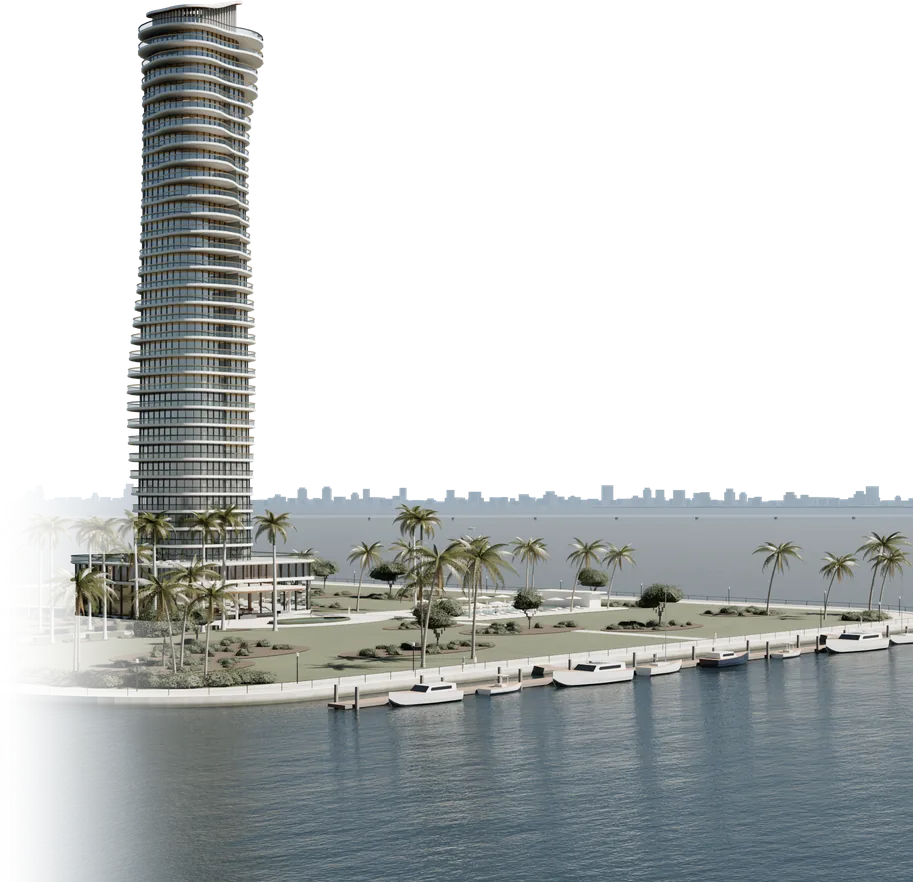
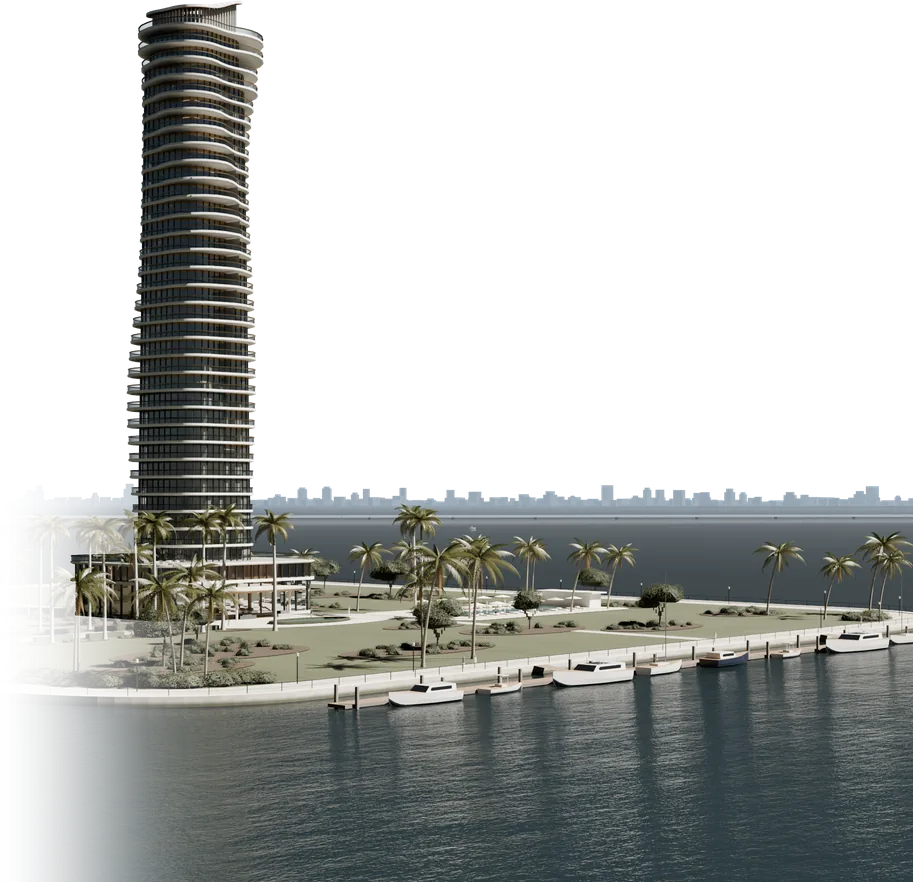
Tower: day still with a hard sun and dark glass; firmer halo for the ruler names
Claude-Session: https://claude.ai/code/session_01NwbVuqgoRVWCR4N1gnNUkq

Changed region(s): [[0.0613, 0.0, 1.0, 0.7041], [0.2453, 0.7347, 1.0, 1.0]]

diff --git a/es/index.html b/es/index.html
@@ -39,8 +39,8 @@
 </script>
 <link rel="preload" href="/fonts/cormorant-garamond-latin-300-normal.woff2" as="font" type="font/woff2" crossorigin>
 <link rel="preload" href="/fonts/jost-latin-400-normal.woff2" as="font" type="font/woff2" crossorigin>
-<link rel="stylesheet" href="/site.css?v=b3cd71a7">
-<link rel="stylesheet" href="/home.css?v=b3cd71a7">
+<link rel="stylesheet" href="/site.css?v=b817ba9a">
+<link rel="stylesheet" href="/home.css?v=b817ba9a">
 <script>
 (function(){var d=document.documentElement;d.classList.add('js');if(/[?&]motion=off(&|$)/.test(location.search))d.dataset.motion='off';var q=/[?&]theme=(dark|light)(&|$)/.exec(location.search);if(q)d.dataset.theme=q[1];
 try{var t=localStorage.getItem('cm-theme');if(t)d.dataset.theme=t;if(localStorage.getItem('cm-motion')==='off')d.dataset.motion='off';
@@ -48,10 +48,10 @@ if(!sessionStorage.getItem('cm-intro')&&!localStorage.getItem('cm-intro')&&!loca
 // if the shared script (site.js) has not arrived four seconds on, the header falls back to its plain list of links
 setTimeout(function(){var b=document.body;if(b&&b.classList.contains('no-js'))d.classList.add('nosite')},4000)})();
 </script>
-<script src="/site.js?v=b3cd71a7" defer></script>
-<script src="/model.js?v=b3cd71a7" defer></script>
-<script src="/instrument.js?v=b3cd71a7" defer></script>
-<script src="/tower3d.js?v=b3cd71a7" async fetchpriority="low"></script>
+<script src="/site.js?v=b817ba9a" defer></script>
+<script src="/model.js?v=b817ba9a" defer></script>
+<script src="/instrument.js?v=b817ba9a" defer></script>
+<script src="/tower3d.js?v=b817ba9a" async fetchpriority="low"></script>
 <script type="speculationrules">{"prefetch":[{"where":{"and":[{"href_matches":"/*"},{"not":{"selector_matches":"[download], [target=_blank], [rel~=nofollow]"}}]},"eagerness":"moderate"}]}</script>
 </head>
 <body class="no-js home">

diff --git a/pt/index.html b/pt/index.html
@@ -39,8 +39,8 @@
 </script>
 <link rel="preload" href="/fonts/cormorant-garamond-latin-300-normal.woff2" as="font" type="font/woff2" crossorigin>
 <link rel="preload" href="/fonts/jost-latin-400-normal.woff2" as="font" type="font/woff2" crossorigin>
-<link rel="stylesheet" href="/site.css?v=b3cd71a7">
-<link rel="stylesheet" href="/home.css?v=b3cd71a7">
+<link rel="stylesheet" href="/site.css?v=b817ba9a">
+<link rel="stylesheet" href="/home.css?v=b817ba9a">
 <script>
 (function(){var d=document.documentElement;d.classList.add('js');if(/[?&]motion=off(&|$)/.test(location.search))d.dataset.motion='off';var q=/[?&]theme=(dark|light)(&|$)/.exec(location.search);if(q)d.dataset.theme=q[1];
 try{var t=localStorage.getItem('cm-theme');if(t)d.dataset.theme=t;if(localStorage.getItem('cm-motion')==='off')d.dataset.motion='off';
@@ -48,10 +48,10 @@ if(!sessionStorage.getItem('cm-intro')&&!localStorage.getItem('cm-intro')&&!loca
 // if the shared script (site.js) has not arrived four seconds on, the header falls back to its plain list of links
 setTimeout(function(){var b=document.body;if(b&&b.classList.contains('no-js'))d.classList.add('nosite')},4000)})();
 </script>
-<script src="/site.js?v=b3cd71a7" defer></script>
-<script src="/model.js?v=b3cd71a7" defer></script>
-<script src="/instrument.js?v=b3cd71a7" defer></script>
-<script src="/tower3d.js?v=b3cd71a7" async fetchpriority="low"></script>
+<script src="/site.js?v=b817ba9a" defer></script>
+<script src="/model.js?v=b817ba9a" defer></script>
+<script src="/instrument.js?v=b817ba9a" defer></script>
+<script src="/tower3d.js?v=b817ba9a" async fetchpriority="low"></script>
 <script type="speculationrules">{"prefetch":[{"where":{"and":[{"href_matches":"/*"},{"not":{"selector_matches":"[download], [target=_blank], [rel~=nofollow]"}}]},"eagerness":"moderate"}]}</script>
 </head>
 <body class="no-js home">

diff --git a/index.html b/index.html
@@ -39,8 +39,8 @@
 </script>
 <link rel="preload" href="fonts/cormorant-garamond-latin-300-normal.woff2" as="font" type="font/woff2" crossorigin>
 <link rel="preload" href="fonts/jost-latin-400-normal.woff2" as="font" type="font/woff2" crossorigin>
-<link rel="stylesheet" href="site.css?v=b3cd71a7">
-<link rel="stylesheet" href="home.css?v=b3cd71a7">
+<link rel="stylesheet" href="site.css?v=b817ba9a">
+<link rel="stylesheet" href="home.css?v=b817ba9a">
 <script>
 (function(){var d=document.documentElement;d.classList.add('js');if(/[?&]motion=off(&|$)/.test(location.search))d.dataset.motion='off';var q=/[?&]theme=(dark|light)(&|$)/.exec(location.search);if(q)d.dataset.theme=q[1];
 try{var t=localStorage.getItem('cm-theme');if(t)d.dataset.theme=t;if(localStorage.getItem('cm-motion')==='off')d.dataset.motion='off';
@@ -48,10 +48,10 @@ if(!sessionStorage.getItem('cm-intro')&&!localStorage.getItem('cm-intro')&&!loca
 // if the shared script (site.js) has not arrived four seconds on, the header falls back to its plain list of links
 setTimeout(function(){var b=document.body;if(b&&b.classList.contains('no-js'))d.classList.add('nosite')},4000)})();
 </script>
-<script src="site.js?v=b3cd71a7" defer></script>
-<script src="model.js?v=b3cd71a7" defer></script>
-<script src="instrument.js?v=b3cd71a7" defer></script>
-<script src="tower3d.js?v=b3cd71a7" async fetchpriority="low"></script>
+<script src="site.js?v=b817ba9a" defer></script>
+<script src="model.js?v=b817ba9a" defer></script>
+<script src="instrument.js?v=b817ba9a" defer></script>
+<script src="tower3d.js?v=b817ba9a" async fetchpriority="low"></script>
 <script type="speculationrules">{"prefetch":[{"where":{"and":[{"href_matches":"/*"},{"not":{"selector_matches":"[download], [target=_blank], [rel~=nofollow]"}}]},"eagerness":"moderate"}]}</script>
 </head>
 <body class="no-js home">

diff --git a/es/clientes-privados.html b/es/clientes-privados.html
@@ -39,10 +39,10 @@
 </script>
 <link rel="preload" href="/fonts/cormorant-garamond-latin-300-normal.woff2" as="font" type="font/woff2" crossorigin>
 <link rel="preload" href="/fonts/jost-latin-400-normal.woff2" as="font" type="font/woff2" crossorigin>
-<link rel="stylesheet" href="/site.css?v=b3cd71a7">
+<link rel="stylesheet" href="/site.css?v=b817ba9a">
 <script>document.documentElement.classList.add('js');if(/[?&]motion=off(&|$)/.test(location.search))document.documentElement.dataset.motion='off';var q=/[?&]theme=(dark|light)(&|$)/.exec(location.search);if(q)document.documentElement.dataset.theme=q[1];try{var t=localStorage.getItem('cm-theme');if(t)document.documentElement.dataset.theme=t;if(localStorage.getItem('cm-motion')==='off')document.documentElement.dataset.motion='off';if(sessionStorage.getItem('cm-door')){sessionStorage.removeItem('cm-door');document.documentElement.dataset.door='open'}}catch(e){}setTimeout(function(){var b=document.body;if(b&&b.classList.contains('no-js'))document.documentElement.classList.add('nosite')},4000)</script>
-<script src="/site.js?v=b3cd71a7" defer></script>
-<script src="/instrument.js?v=b3cd71a7" defer></script>
+<script src="/site.js?v=b817ba9a" defer></script>
+<script src="/instrument.js?v=b817ba9a" defer></script>
 <script type="speculationrules">{"prefetch":[{"where":{"and":[{"href_matches":"/*"},{"not":{"selector_matches":"[download], [target=_blank], [rel~=nofollow]"}}]},"eagerness":"moderate"}]}</script>
 </head>
 <body class="no-js" id="top">

diff --git a/pt/clientes-privados.html b/pt/clientes-privados.html
@@ -39,10 +39,10 @@
 </script>
 <link rel="preload" href="/fonts/cormorant-garamond-latin-300-normal.woff2" as="font" type="font/woff2" crossorigin>
 <link rel="preload" href="/fonts/jost-latin-400-normal.woff2" as="font" type="font/woff2" crossorigin>
-<link rel="stylesheet" href="/site.css?v=b3cd71a7">
+<link rel="stylesheet" href="/site.css?v=b817ba9a">
 <script>document.documentElement.classList.add('js');if(/[?&]motion=off(&|$)/.test(location.search))document.documentElement.dataset.motion='off';var q=/[?&]theme=(dark|light)(&|$)/.exec(location.search);if(q)document.documentElement.dataset.theme=q[1];try{var t=localStorage.getItem('cm-theme');if(t)document.documentElement.dataset.theme=t;if(localStorage.getItem('cm-motion')==='off')document.documentElement.dataset.motion='off';if(sessionStorage.getItem('cm-door')){sessionStorage.removeItem('cm-door');document.documentElement.dataset.door='open'}}catch(e){}setTimeout(function(){var b=document.body;if(b&&b.classList.contains('no-js'))document.documentElement.classList.add('nosite')},4000)</script>
-<script src="/site.js?v=b3cd71a7" defer></script>
-<script src="/instrument.js?v=b3cd71a7" defer></script>
+<script src="/site.js?v=b817ba9a" defer></script>
+<script src="/instrument.js?v=b817ba9a" defer></script>
 <script type="speculationrules">{"prefetch":[{"where":{"and":[{"href_matches":"/*"},{"not":{"selector_matches":"[download], [target=_blank], [rel~=nofollow]"}}]},"eagerness":"moderate"}]}</script>
 </head>
 <body class="no-js" id="top">

diff --git a/private-clients.html b/private-clients.html
@@ -39,10 +39,10 @@
 </script>
 <link rel="preload" href="fonts/cormorant-garamond-latin-300-normal.woff2" as="font" type="font/woff2" crossorigin>
 <link rel="preload" href="fonts/jost-latin-400-normal.woff2" as="font" type="font/woff2" crossorigin>
-<link rel="stylesheet" href="site.css?v=b3cd71a7">
+<link rel="stylesheet" href="site.css?v=b817ba9a">
 <script>document.documentElement.classList.add('js');if(/[?&]motion=off(&|$)/.test(location.search))document.documentElement.dataset.motion='off';var q=/[?&]theme=(dark|light)(&|$)/.exec(location.search);if(q)document.documentElement.dataset.theme=q[1];try{var t=localStorage.getItem('cm-theme');if(t)document.documentElement.dataset.theme=t;if(localStorage.getItem('cm-motion')==='off')document.documentElement.dataset.motion='off';if(sessionStorage.getItem('cm-door')){sessionStorage.removeItem('cm-door');document.documentElement.dataset.door='open'}}catch(e){}setTimeout(function(){var b=document.body;if(b&&b.classList.contains('no-js'))document.documentElement.classList.add('nosite')},4000)</script>
-<script src="site.js?v=b3cd71a7" defer></script>
-<script src="instrument.js?v=b3cd71a7" defer></script>
+<script src="site.js?v=b817ba9a" defer></script>
+<script src="instrument.js?v=b817ba9a" defer></script>
 <script type="speculationrules">{"prefetch":[{"where":{"and":[{"href_matches":"/*"},{"not":{"selector_matches":"[download], [target=_blank], [rel~=nofollow]"}}]},"eagerness":"moderate"}]}</script>
 </head>
 <body class="no-js" id="top">

diff --git a/404.html b/404.html
@@ -28,10 +28,10 @@
 <meta name="theme-color" content="#F4F0E8">
 <link rel="preload" href="/fonts/cormorant-garamond-latin-300-normal.woff2" as="font" type="font/woff2" crossorigin>
 <link rel="preload" href="/fonts/jost-latin-400-normal.woff2" as="font" type="font/woff2" crossorigin>
-<link rel="stylesheet" href="/site.css?v=b3cd71a7">
+<link rel="stylesheet" href="/site.css?v=b817ba9a">
 <script>document.documentElement.classList.add('js');if(/[?&]motion=off(&|$)/.test(location.search))document.documentElement.dataset.motion='off';var q=/[?&]theme=(dark|light)(&|$)/.exec(location.search);if(q)document.documentElement.dataset.theme=q[1];try{var t=localStorage.getItem('cm-theme');if(t)document.documentElement.dataset.theme=t;if(localStorage.getItem('cm-motion')==='off')document.documentElement.dataset.motion='off'}catch(e){}setTimeout(function(){var b=document.body;if(b&&b.classList.contains('no-js'))document.documentElement.classList.add('nosite')},4000)</script>
-<script src="/site.js?v=b3cd71a7" defer></script>
-<script src="/model.js?v=b3cd71a7" defer></script>
+<script src="/site.js?v=b817ba9a" defer></script>
+<script src="/model.js?v=b817ba9a" defer></script>
 <script type="speculationrules">{"prefetch":[{"where":{"and":[{"href_matches":"/*"},{"not":{"selector_matches":"[download], [target=_blank], [rel~=nofollow]"}}]},"eagerness":"moderate"}]}</script>
 </head>
 <body class="no-js" id="top">

diff --git a/project-site.html b/project-site.html
@@ -33,10 +33,10 @@
 </script>
 <link rel="preload" href="fonts/cormorant-garamond-latin-300-normal.woff2" as="font" type="font/woff2" crossorigin>
 <link rel="preload" href="fonts/jost-latin-400-normal.woff2" as="font" type="font/woff2" crossorigin>
-<link rel="stylesheet" href="site.css?v=b3cd71a7">
+<link rel="stylesheet" href="site.css?v=b817ba9a">
 <script>document.documentElement.classList.add('js');if(/[?&]motion=off(&|$)/.test(location.search))document.documentElement.dataset.motion='off';var q=/[?&]theme=(dark|light)(&|$)/.exec(location.search);if(q)document.documentElement.dataset.theme=q[1];try{var t=localStorage.getItem('cm-theme');if(t)document.documentElement.dataset.theme=t;if(localStorage.getItem('cm-motion')==='off')document.documentElement.dataset.motion='off'}catch(e){}setTimeout(function(){var b=document.body;if(b&&b.classList.contains('no-js'))document.documentElement.classList.add('nosite')},4000)</script>
-<script src="project-site.js?v=b3cd71a7" defer></script>
-<script src="site.js?v=b3cd71a7" defer></script>
+<script src="project-site.js?v=b817ba9a" defer></script>
+<script src="site.js?v=b817ba9a" defer></script>
 <script type="speculationrules">{"prefetch":[{"where":{"and":[{"href_matches":"/*"},{"not":{"selector_matches":"[download], [target=_blank], [rel~=nofollow]"}}]},"eagerness":"moderate"}]}</script>
 </head>
 <body class="no-js" id="top">

diff --git a/developers.html b/developers.html
@@ -32,10 +32,10 @@
 </script>
 <link rel="preload" href="fonts/cormorant-garamond-latin-300-normal.woff2" as="font" type="font/woff2" crossorigin>
 <link rel="preload" href="fonts/jost-latin-400-normal.woff2" as="font" type="font/woff2" crossorigin>
-<link rel="stylesheet" href="site.css?v=b3cd71a7">
+<link rel="stylesheet" href="site.css?v=b817ba9a">
 <script>document.documentElement.classList.add('js');if(/[?&]motion=off(&|$)/.test(location.search))document.documentElement.dataset.motion='off';var q=/[?&]theme=(dark|light)(&|$)/.exec(location.search);if(q)document.documentElement.dataset.theme=q[1];try{var t=localStorage.getItem('cm-theme');if(t)document.documentElement.dataset.theme=t;if(localStorage.getItem('cm-motion')==='off')document.documentElement.dataset.motion='off'}catch(e){}setTimeout(function(){var b=document.body;if(b&&b.classList.contains('no-js'))document.documentElement.classList.add('nosite')},4000)</script>
-<script src="instrument.js?v=b3cd71a7" defer></script>
-<script src="site.js?v=b3cd71a7" defer></script>
+<script src="instrument.js?v=b817ba9a" defer></script>
+<script src="site.js?v=b817ba9a" defer></script>
 <script type="speculationrules">{"prefetch":[{"where":{"and":[{"href_matches":"/*"},{"not":{"selector_matches":"[download], [target=_blank], [rel~=nofollow]"}}]},"eagerness":"moderate"}]}</script>
 </head>
 <body class="no-js" id="top">

diff --git a/planner.html b/planner.html
@@ -32,10 +32,10 @@
 </script>
 <link rel="preload" href="fonts/cormorant-garamond-latin-300-normal.woff2" as="font" type="font/woff2" crossorigin>
 <link rel="preload" href="fonts/jost-latin-400-normal.woff2" as="font" type="font/woff2" crossorigin>
-<link rel="stylesheet" href="site.css?v=b3cd71a7">
+<link rel="stylesheet" href="site.css?v=b817ba9a">
 <script>document.documentElement.classList.add('js');if(/[?&]motion=off(&|$)/.test(location.search))document.documentElement.dataset.motion='off';var q=/[?&]theme=(dark|light)(&|$)/.exec(location.search);if(q)document.documentElement.dataset.theme=q[1];try{var t=localStorage.getItem('cm-theme');if(t)document.documentElement.dataset.theme=t;if(localStorage.getItem('cm-motion')==='off')document.documentElement.dataset.motion='off'}catch(e){}setTimeout(function(){var b=document.body;if(b&&b.classList.contains('no-js'))document.documentElement.classList.add('nosite')},4000)</script>
-<script src="site.js?v=b3cd71a7" defer></script>
-<script src="planner.js?v=b3cd71a7" defer></script>
+<script src="site.js?v=b817ba9a" defer></script>
+<script src="planner.js?v=b817ba9a" defer></script>
 <script type="speculationrules">{"prefetch":[{"where":{"and":[{"href_matches":"/*"},{"not":{"selector_matches":"[download], [target=_blank], [rel~=nofollow]"}}]},"eagerness":"moderate"}]}</script>
 </head>
 <body class="no-js" id="top">

diff --git a/journal/index.html b/journal/index.html
@@ -33,9 +33,9 @@
 <meta name="theme-color" content="#F4F0E8">
 <link rel="preload" href="../fonts/cormorant-garamond-latin-300-normal.woff2" as="font" type="font/woff2" crossorigin>
 <link rel="preload" href="../fonts/jost-latin-400-normal.woff2" as="font" type="font/woff2" crossorigin>
-<link rel="stylesheet" href="../site.css?v=b3cd71a7">
+<link rel="stylesheet" href="../site.css?v=b817ba9a">
 <script>document.documentElement.classList.add('js');if(/[?&]motion=off(&|$)/.test(location.search))document.documentElement.dataset.motion='off';var q=/[?&]theme=(dark|light)(&|$)/.exec(location.search);if(q)document.documentElement.dataset.theme=q[1];try{var t=localStorage.getItem('cm-theme');if(t)document.documentElement.dataset.theme=t;if(localStorage.getItem('cm-motion')==='off')document.documentElement.dataset.motion='off'}catch(e){}setTimeout(function(){var b=document.body;if(b&&b.classList.contains('no-js'))document.documentElement.classList.add('nosite')},4000)</script>
-<script src="../site.js?v=b3cd71a7" defer></script>
+<script src="../site.js?v=b817ba9a" defer></script>
 <script type="speculationrules">{"prefetch":[{"where":{"and":[{"href_matches":"/*"},{"not":{"selector_matches":"[download], [target=_blank], [rel~=nofollow]"}}]},"eagerness":"moderate"}]}</script>
 </head>
 <body class="no-js" id="top">

diff --git a/journal/buying-new-construction-california.html b/journal/buying-new-construction-california.html
@@ -35,9 +35,9 @@
 </script>
 <link rel="preload" href="../fonts/cormorant-garamond-latin-300-normal.woff2" as="font" type="font/woff2" crossorigin>
 <link rel="preload" href="../fonts/jost-latin-400-normal.woff2" as="font" type="font/woff2" crossorigin>
-<link rel="stylesheet" href="../site.css?v=b3cd71a7">
+<link rel="stylesheet" href="../site.css?v=b817ba9a">
 <script>document.documentElement.classList.add('js');if(/[?&]motion=off(&|$)/.test(location.search))document.documentElement.dataset.motion='off';var q=/[?&]theme=(dark|light)(&|$)/.exec(location.search);if(q)document.documentElement.dataset.theme=q[1];try{var t=localStorage.getItem('cm-theme');if(t)document.documentElement.dataset.theme=t;if(localStorage.getItem('cm-motion')==='off')document.documentElement.dataset.motion='off'}catch(e){}setTimeout(function(){var b=document.body;if(b&&b.classList.contains('no-js'))document.documentElement.classList.add('nosite')},4000)</script>
-<script src="../site.js?v=b3cd71a7" defer></script>
+<script src="../site.js?v=b817ba9a" defer></script>
 <script type="speculationrules">{"prefetch":[{"where":{"and":[{"href_matches":"/*"},{"not":{"selector_matches":"[download], [target=_blank], [rel~=nofollow]"}}]},"eagerness":"moderate"}]}</script>
 </head>
 <body class="no-js" id="top">
